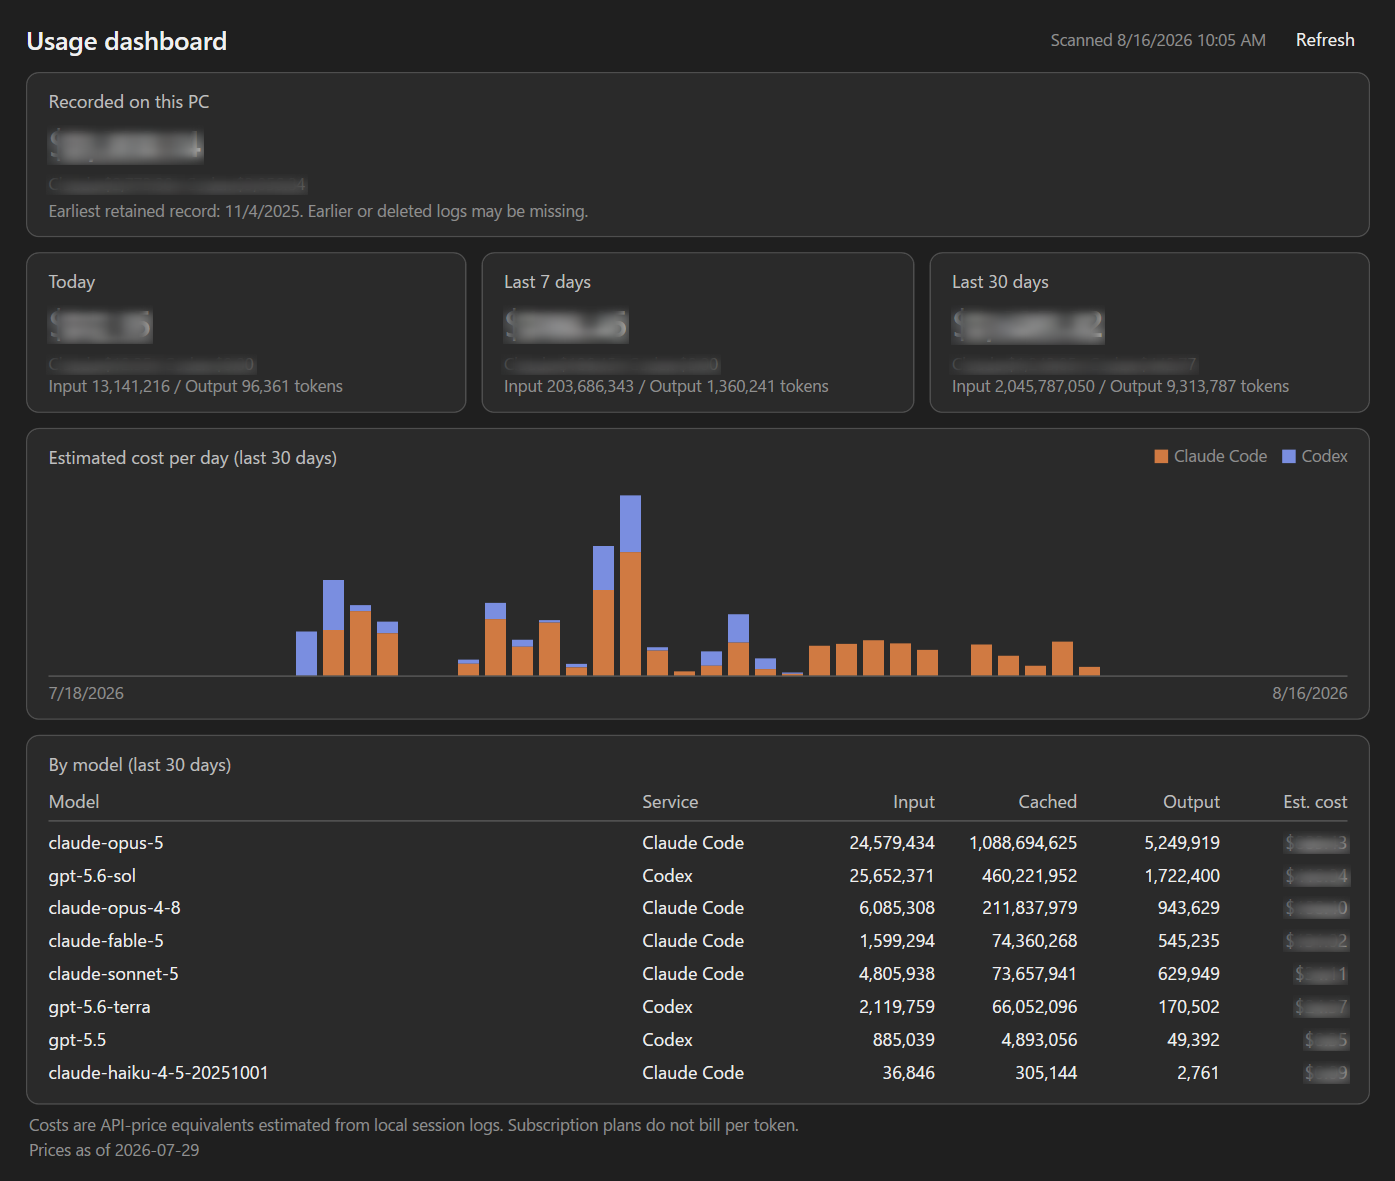
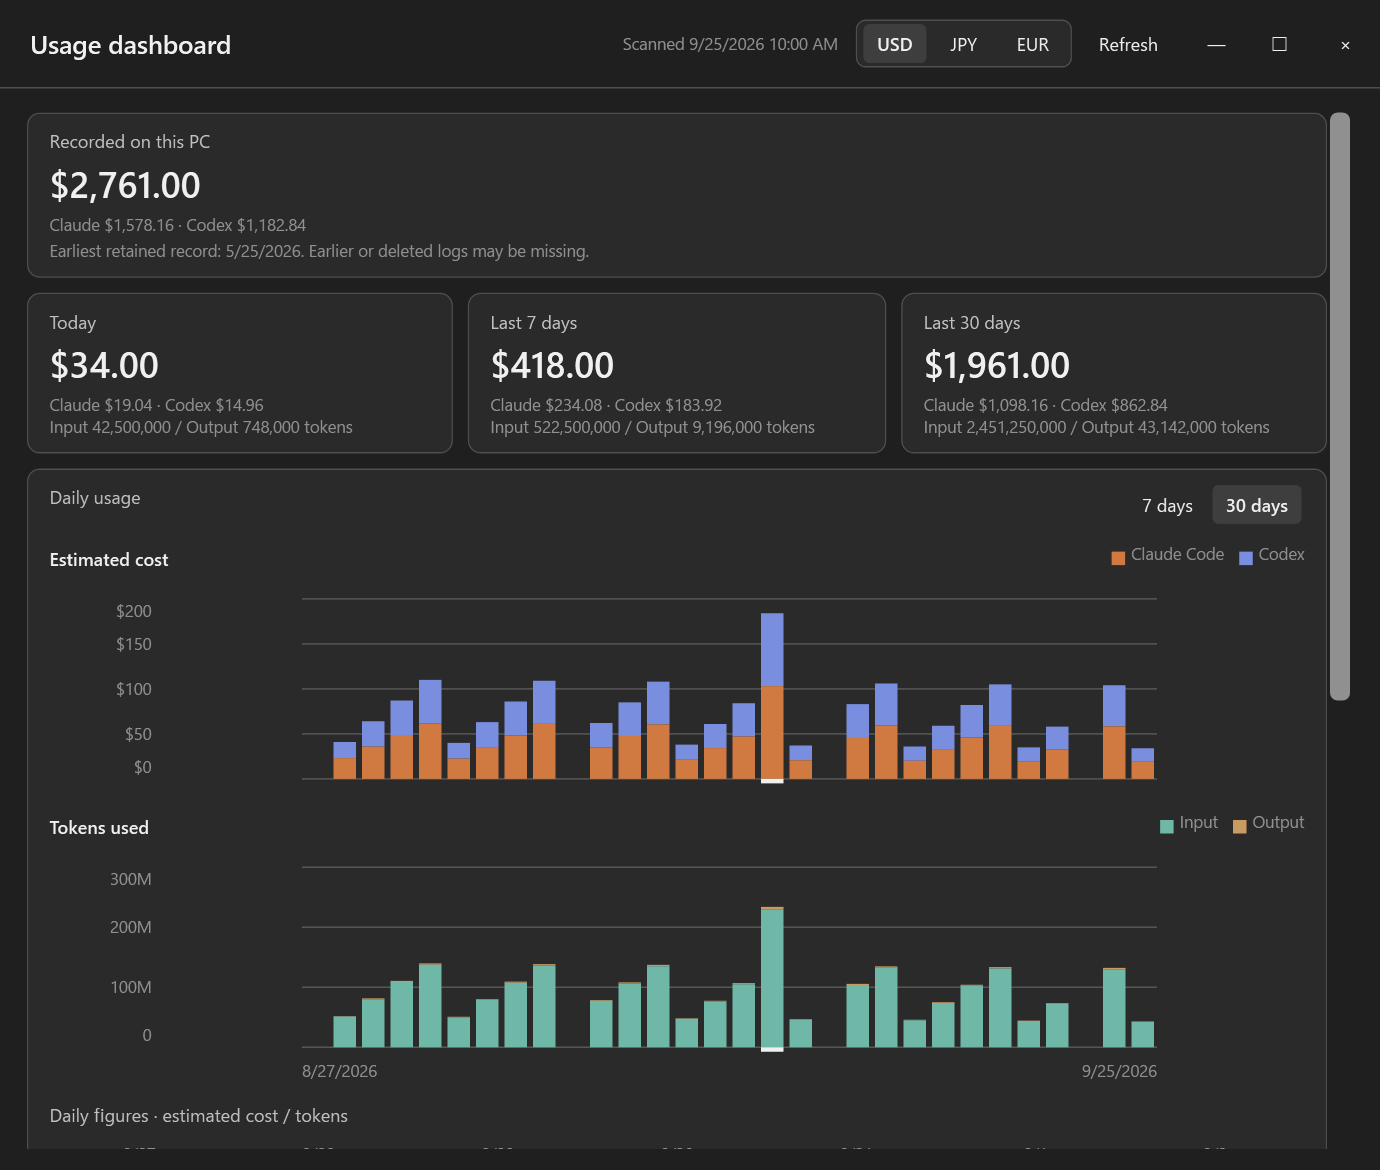
[🔖] Prepare UsageBeacon v1.2.0 release
- Update README screenshots using illustrative dashboard data.

- Add curated release notes and align the tag workflow and release guide.

- Bump the application version and record the changelog.

diff --git a/README.md b/README.md
@@ -49,14 +49,19 @@ The widget stays on the taskbar and updates on your chosen interval:
 
 <img src="docs/images/widget.png" alt="UsageBeacon taskbar widget showing Claude and Codex percentages" width="177">
 
-The dashboard estimates costs for today, the last 7 days, and the last 30 days, with a daily chart
-and a per-model breakdown:
+The dashboard puts locally retained lifetime, today, 7-day, and 30-day estimates above aligned
+cost and token charts:
 
-<img src="docs/images/dashboard.png" alt="UsageBeacon usage dashboard with cost cards, daily chart, and per-model table" width="820">
+<img src="docs/images/dashboard.png" alt="UsageBeacon dashboard with summary cards and aligned daily cost and token charts" width="820">
+
+The daily figures below the charts show each day's estimated cost and token count without hovering.
+Select a day to see its service split and exact input and output totals:
+
+<img src="docs/images/dashboard-daily.png" alt="Daily cost and token figures with selected-day details in the UsageBeacon dashboard" width="820">
 
 > [!NOTE]
-> Dollar amounts are blurred in the screenshot above. They are real values from the author's machine,
-> not a limitation of the app.
+> The dashboard screenshots were captured from the app with illustrative usage data. They do not
+> show the author's usage history.
 
 ## Requirements
 
@@ -147,6 +152,11 @@ Codex already write locally (`~/.claude/projects` and `~/.codex/sessions`), pric
 embedded per-model table, and reports estimated costs for today, the last 7 days, and the last 30
 days, plus a lifetime total split between Claude and Codex.
 
+Choose USD, JPY, or EUR at the top of the dashboard. JPY and EUR use fixed approximate display
+rates; the underlying estimates stay in USD. Switch between 7-day and 30-day views to compare
+daily estimated cost and token volume, and select a day for exact figures. The model breakdown
+is available below the charts.
+
 > [!NOTE]
 > These are API-price equivalents, not bills. Subscription plans do not charge per token. The
 > lifetime figure covers only what UsageBeacon has retained on this computer, so logs deleted before
@@ -166,7 +176,9 @@ See [the dashboard documentation](docs/DASHBOARD.md) for data sources, retention
   price override, and crash logs live in `%LOCALAPPDATA%\UsageBeacon`.
 - There is no telemetry and no analytics. Unhandled exceptions go only to
   `%LOCALAPPDATA%\UsageBeacon\logs\crash.log`, a size-capped local file that is never transmitted and
-  is redacted for your profile path, account name, and credential-shaped values.
+  uses best-effort redaction for your profile path, account name, and recognized credential fields
+  and token formats. Review the complete record and remove remaining sensitive information before
+  sharing it; arbitrary exception text may contain data the redactor cannot recognize.
 
 When upgrading from Token Checker for Windows, UsageBeacon migrates `%APPDATA%\TokenChecker` and the
 legacy startup entry automatically. If migration is blocked, it keeps using the existing data

diff --git a/docs/releases/v1.2.0.md b/docs/releases/v1.2.0.md
@@ -1,0 +1,26 @@
+UsageBeacon v1.2.0 makes locally recorded Claude Code and Codex activity easier to compare day by day.
+
+## Highlights
+
+- The dashboard now has an integrated title bar and keeps lifetime, today, last 7 days, and last 30 days at the top.
+- Aligned cost and token charts show where usage spiked. Switch between 7 and 30 days, select a day for its exact figures, or read every day's estimated cost and token count below the charts without hovering. Chart axes use rounded intervals based on the displayed data.
+- Switch estimated costs between USD, JPY, and EUR. JPY and EUR use fixed approximate display rates; the underlying estimate remains in USD.
+- GPT-6 Astra and GPT-6 Sol now contribute to estimated cost using published Standard short-context API prices.
+
+![Dashboard overview with illustrative usage data](https://raw.githubusercontent.com/kmch4n/UsageBeacon/v1.2.0/docs/images/dashboard.png)
+
+[See the daily figures and selected-day view](https://github.com/kmch4n/UsageBeacon/blob/v1.2.0/docs/images/dashboard-daily.png).
+
+## Reliability and privacy
+
+- Claude usage and OAuth responses now enforce their timeout and size limits through the complete response body, preventing a stalled body from blocking later refreshes.
+- Crash-log redaction now handles complete quoted credential values, including whitespace and escaped quotes. Review a crash record before sharing it: redaction remains best effort for arbitrary exception text.
+- Dashboard cost coverage is explained in words when pricing data or older source logs are missing.
+
+## Before you download
+
+Costs are API-price equivalents, not subscription charges. The dashboard uses session logs retained on this PC; it does not include cloud sessions or other devices. GPT-6 estimates use short-context rates because the local logs do not identify long-context requests or cache writes. The screenshots above use illustrative data.
+
+Download the self-contained `UsageBeacon.exe` below and compare its SHA-256 hash with `UsageBeacon.exe.sha256`. The executable is unsigned, so Windows SmartScreen may show a warning.
+
+[Full changelog](https://github.com/kmch4n/UsageBeacon/blob/v1.2.0/docs/CHANGELOG.md) · [Changes since v1.1.0](https://github.com/kmch4n/UsageBeacon/compare/v1.1.0...v1.2.0)

diff --git a/docs/RELEASE.md b/docs/RELEASE.md
@@ -9,7 +9,9 @@ workflow uses only the automatic `GITHUB_TOKEN`; no additional secrets are confi
 2. Update `<Version>` in `UsageBeacon/UsageBeacon.csproj`.
 3. In `docs/CHANGELOG.md`, rename `## Unreleased` to `## X.Y.Z - YYYY-MM-DD` and add a fresh
    `## Unreleased` heading above it.
-4. Run the local checks with UsageBeacon not running, because a live process locks the output paths:
+4. Write `docs/releases/vX.Y.Z.md` when the release needs curated notes. If the file is absent,
+   the workflow falls back to GitHub's generated notes.
+5. Run the local checks with UsageBeacon not running, because a live process locks the output paths:
 
     ```powershell
     dotnet test UsageBeacon.sln -c Debug
@@ -18,13 +20,13 @@ workflow uses only the automatic `GITHUB_TOKEN`; no additional secrets are confi
     ```
 
    `ReleaseMetadataTests` fails if the project version and the newest changelog heading disagree.
-5. Commit the version and changelog changes.
+6. Commit the version, changelog, and release notes with the implementation.
 
 ## Tagging
 
 ```powershell
-git tag v1.1.0
-git push fork v1.1.0
+git tag v1.2.0
+git push fork v1.2.0
 ```
 
 The tag name must be the project version with a leading `v`. The workflow verifies this before it
@@ -37,7 +39,8 @@ was not built from.
 2. Runs the test suite.
 3. Publishes the self-contained single-file `win-x64` executable.
 4. Writes `UsageBeacon.exe.sha256` next to it.
-5. Creates the GitHub release with both files attached and generated notes.
+5. Creates the GitHub release with both files attached. It uses `docs/releases/vX.Y.Z.md` when
+   present and generates notes only when no dedicated file exists.
 
 ## After the run
 

diff --git a/docs/superpowers/plans/2026-09-25-v1.2.0-release.md b/docs/superpowers/plans/2026-09-25-v1.2.0-release.md
@@ -1,0 +1,21 @@
+# UsageBeacon v1.2.0 Release Preparation
+
+## Goal
+
+Ship the current dashboard and reliability improvements as a reviewable v1.2.0 release, with accurate screenshots and release notes that describe changes since v1.1.0.
+
+## Approach
+
+1. Compare the v1.1.0 tag, current working tree, previous release notes, and release workflow. Verify the GitHub identity and preserve existing changes.
+2. Capture the actual WPF dashboard using illustrative usage data in a separate screenshot harness. Review images for readability and absence of personal usage or credentials before updating README.
+3. Update README dashboard copy and screenshots, v1.2.0 changelog, project version, and a dedicated release note file. Wire the tag workflow to use the file, retaining generated notes as a fallback.
+4. Run Debug and Release tests, a self-contained publish, release checklist checks, and image inspection. Confirm the tagged-source workflow will package the intended version and checksum.
+   Apply the selected theme to the dashboard scrollbar and recapture both images after the independent visual review.
+5. Publish only after the local result and release text are concrete and reviewable.
+
+## Constraints
+
+- Keep public-facing repository text in English and files in UTF-8.
+- Do not include personal usage history or credentials in screenshots.
+- Keep the WPF application and data collection behavior unchanged for screenshot generation.
+- Do not mix upstream release history with this fork's v1.1.0-to-v1.2.0 change list.

diff --git a/docs/CHANGELOG.md b/docs/CHANGELOG.md
@@ -4,6 +4,25 @@ All notable user-visible changes to UsageBeacon will be documented in this file.
 
 ## Unreleased
 
+## 1.2.0 - 2026-09-25
+
+### Added
+
+- Aligned daily charts for estimated cost by service and input/output token volume, with 7-day and 30-day views, rounded axes, peak-day shortcuts, and a selectable daily numeric grid.
+- USD, JPY, and EUR dashboard display options. JPY and EUR use fixed approximate rates while stored estimates remain in USD.
+- Published Standard short-context API rates for GPT-6 Astra and GPT-6 Sol, so their locally recorded usage contributes to cost estimates.
+
+### Changed
+
+- The dashboard now uses a theme-aware integrated title bar and keeps the lifetime, today, 7-day, and 30-day cards above the daily analysis.
+- Cost coverage is stated explicitly where model prices or older source logs are unavailable; ambiguous `+` suffixes were removed.
+- Dashboard screenshots now use illustrative usage data and show both the chart overview and daily figures.
+
+### Fixed
+
+- Claude usage and OAuth responses now apply the configured timeout and 64 KiB size limit to the complete response body, preventing a stalled body from indefinitely blocking usage refreshes.
+- Crash logs now mask complete quoted credential values, including whitespace and escaped quotes. Compound or escaped credential representations omit the remaining record conservatively. Log-sharing guidance now explains that redaction is best effort.
+
 ## 1.1.0 - 2026-07-31
 
 ### Added
